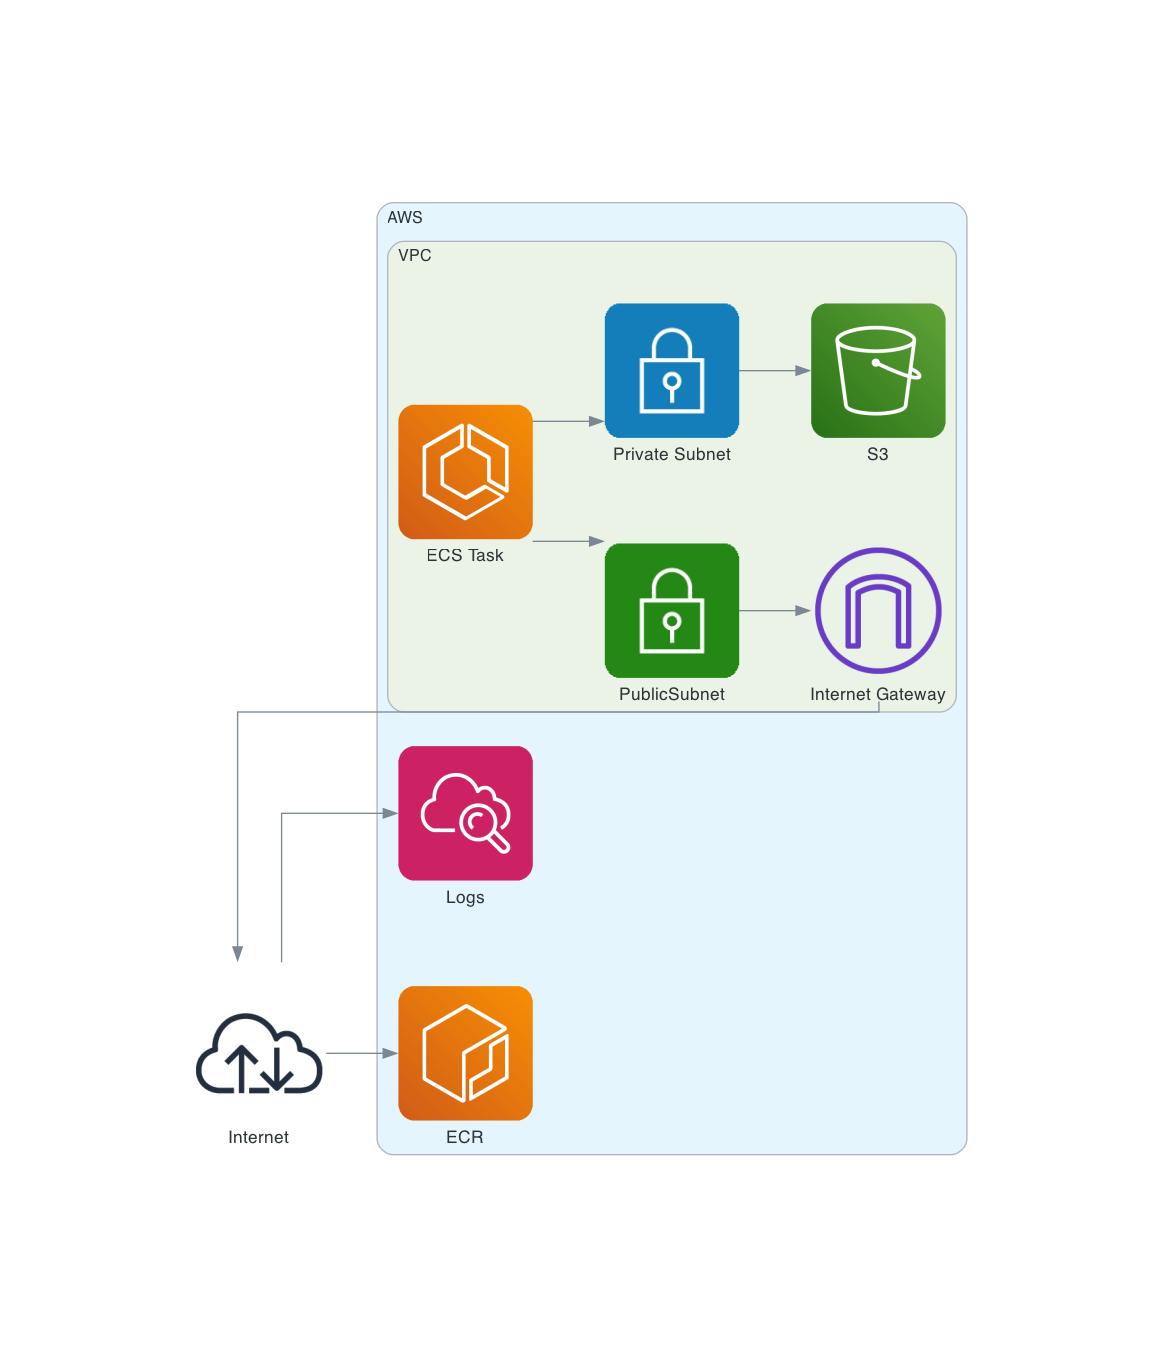
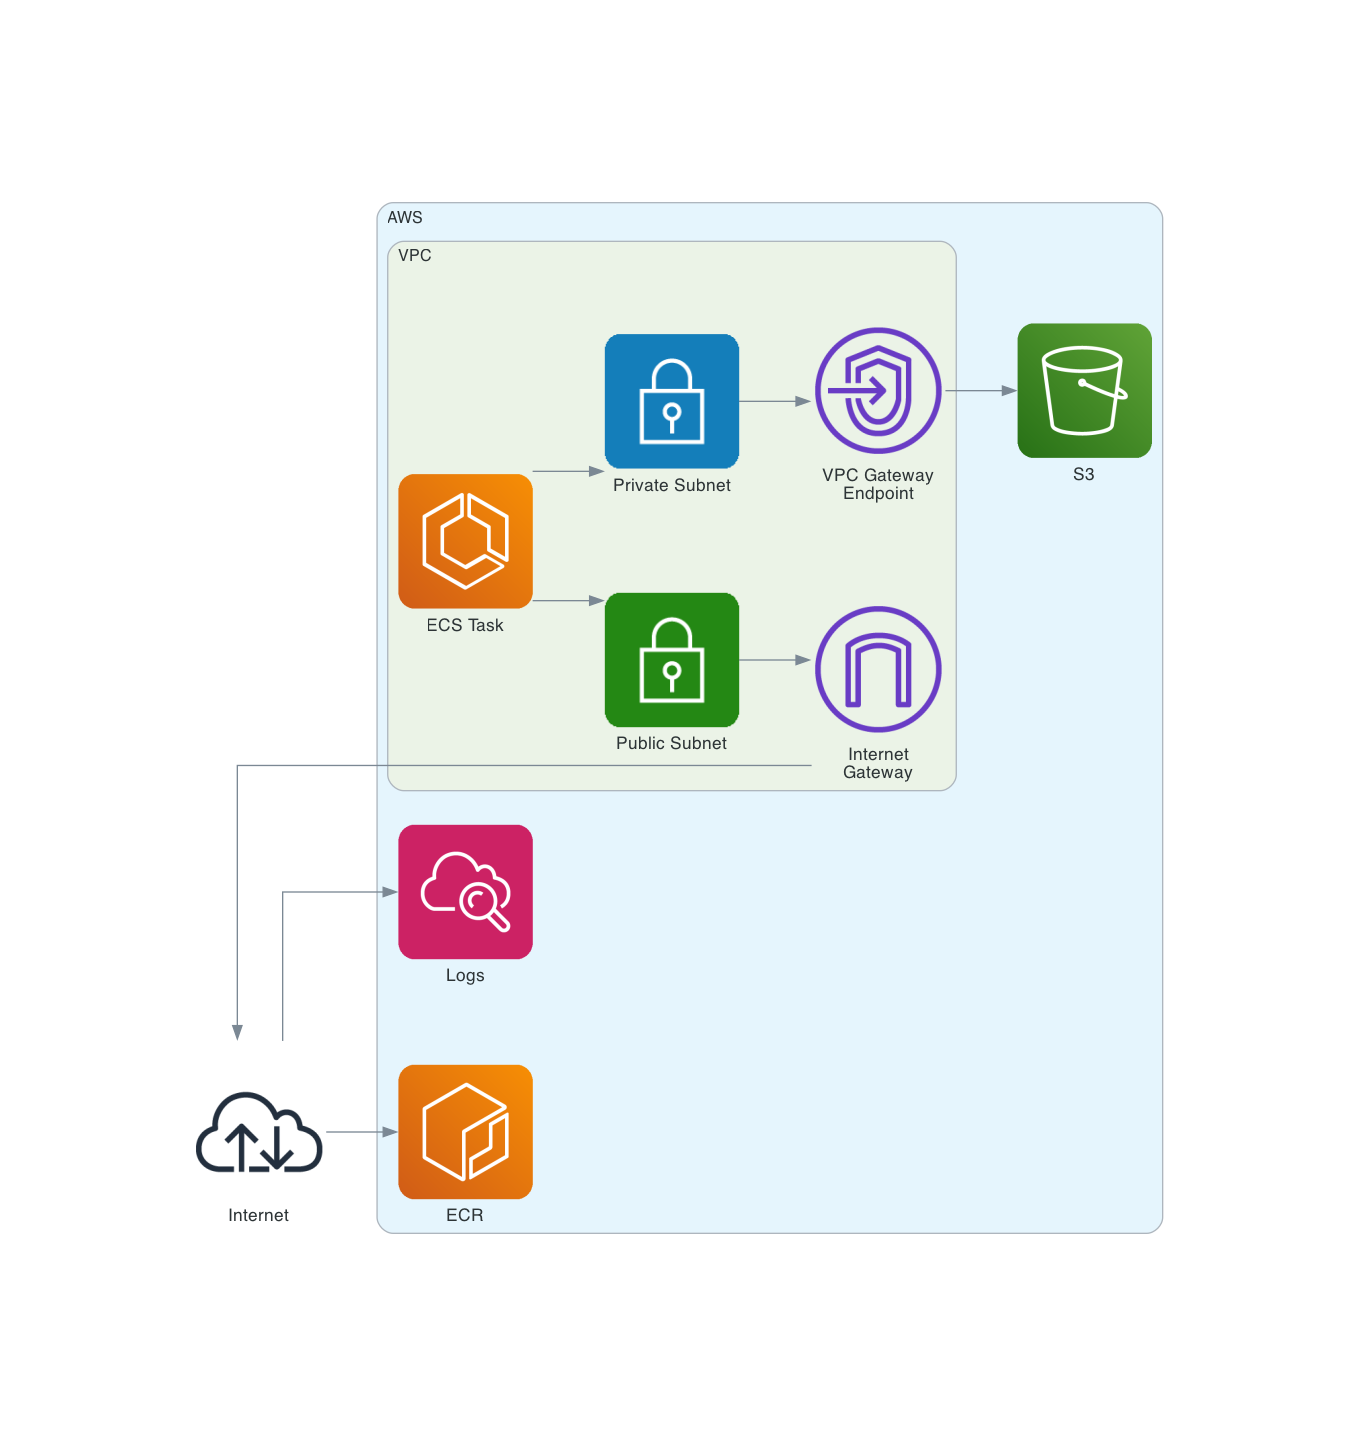
diagrams: VPC diagram

Changed region(s): [[0.1231, 0.1238, 0.8615, 0.8666]]

diff --git a/diagrams/vpc_diagram.py b/diagrams/vpc_diagram.py
@@ -1,6 +1,6 @@
 from diagrams import Cluster, Diagram, Edge
 from diagrams.aws.compute import ECS, ECR
-from diagrams.aws.network import InternetGateway, PrivateSubnet, PublicSubnet
+from diagrams.aws.network import InternetGateway, PrivateSubnet, PublicSubnet, Endpoint
 from diagrams.aws.storage import S3
 from diagrams.aws.management import Cloudwatch
 from diagrams.onprem.network import Internet
@@ -12,20 +12,21 @@ with Diagram("", filename="vpc_diagram", outformat="png"):
   with Cluster("AWS"):
     logs = Cloudwatch("Logs")
     ecr = ECR("ECR")
+    s3 = S3("S3")
     
     
     with Cluster("VPC"):
-      igw = InternetGateway("Internet Gateway")
-      publicSubnet = PublicSubnet("PublicSubnet")
+      igw = InternetGateway("Internet\nGateway")
+      s3Endpoint = Endpoint("VPC Gateway\nEndpoint")
+      publicSubnet = PublicSubnet("Public Subnet")
       privateSubnet = PrivateSubnet("Private Subnet")
 
       ecs = ECS("ECS Task")
       ecs >> privateSubnet 
-      privateSubnet >> S3("S3")
+      privateSubnet >> s3Endpoint >> s3
     
     ecs >> publicSubnet
     publicSubnet >> igw
            
   igw >> internet
-  internet >> logs
-  internet >> ecr
+  internet >> [ecr, logs]
